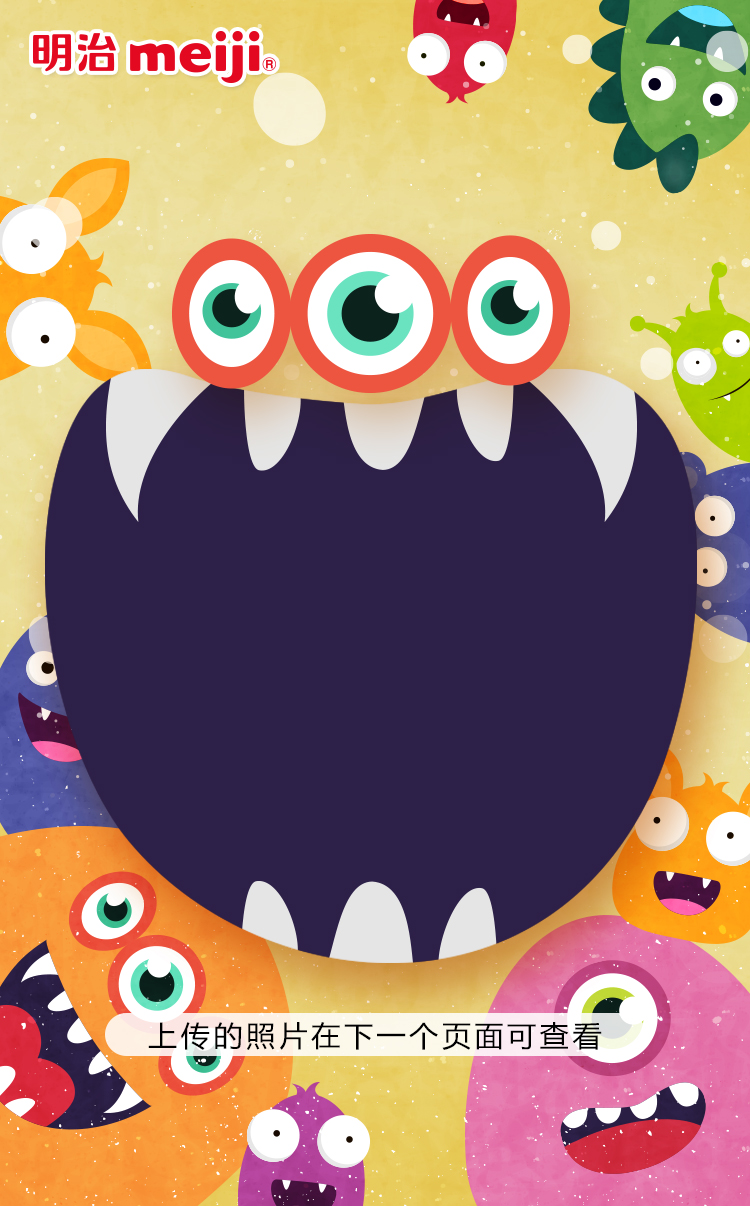
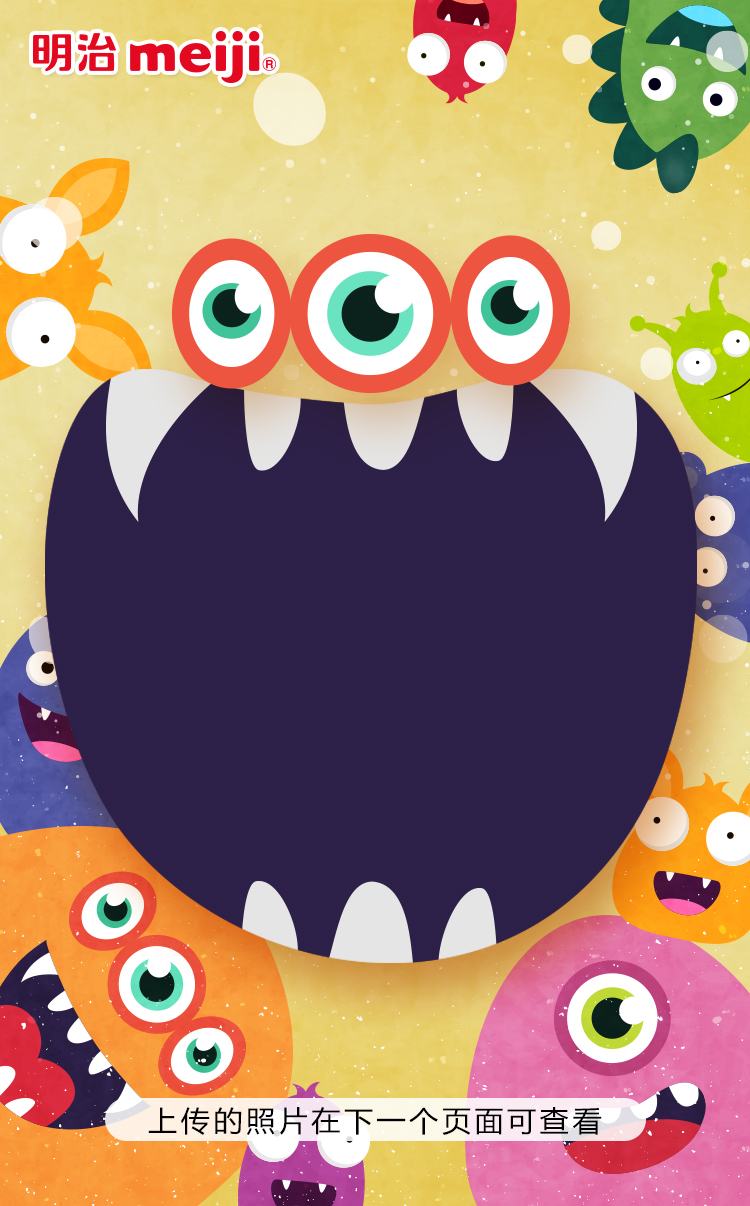
11

Changed region(s): [[0.1227, 0.8284, 0.8587, 0.9511]]

diff --git a/wechat/Content/Mingzhi1/css/style.css b/wechat/Content/Mingzhi1/css/style.css
@@ -15,11 +15,11 @@ a:hover{text-decoration: none;color: black;}
 .gaoxiaowrap{width: 750px;height: 1206px;background: url("../image/qhgaoxiao.jpg") no-repeat;border: 1px solid;}
 .gaoxiaowrap form{width: 750px;height: auto;margin-top: 50px}
 .gaoxiaowrap form input[type=button]{border:none;display:block;width: 603px;height: 103px;background: url("../image/bigsubbtn.png") no-repeat;margin: 300px auto 0 auto;}
-.gaoxiaowrap .shuoming{display: block;width: 320px;height: 30px;text-align: center;position: absolute;top:600px;left:30%;font-size: 32px;color: white;}
+.gaoxiaowrap .shuoming{display: block;width:400px;height: 30px;text-align: center;position: absolute;top:600px;left:23%;font-size: 32px;color: white;}
 .gaoxiaowrap .text{outline: none;background: url("../image/qhbordergaoxiao.png") no-repeat;width:443px;height:167px;padding: 65px 0 0 225px;font-size: 32px;border: none;}
 .gaoguaishow{position:absolute;width: 750px;height:606px;z-index:0;top:372px;overflow:hidden}
 .gaoxiaoshowwrap form{width: 750px;height: auto;margin-top: 50px;}
-.gaoxiaowrap form input[type=button]{border:none;display:block;width: 603px;height: 103px;background: url("../image/bigsubbtn.png") no-repeat;margin:608px auto 0 auto;}
+.gaoxiaowrap form input[type=button]{border:none;display:block;width: 603px;height: 103px;background: url("../image/bigsubbtn.png") no-repeat;margin:695px auto 0 auto;}
 .gaoxiaoshowwrap{width: 750px;height: 1206px;background: url("../image/gaoguainextbg.png") no-repeat;position: absolute;left: 0;top:0;z-index: 2;}
 .gaoxiaoshowwrap .text{outline: none;background: url("../image/qhbordergaoxiao.png") no-repeat;width:443px;height:155px;padding: 65px 0 0 225px;font-size: 32px;border: none;}
 .gongxibtn{z-index:2;position: absolute;width: 275px;height: 292px;left:32%;top:888px;background: url("../image/gongxibtn.png") no-repeat;border: none}
@@ -84,6 +84,6 @@ a:hover{text-decoration: none;color: black;}
 .rightkuang{position:absolute;top:322px;left:377px;width: 278px;height:366px;background:palegoldenrod;border-radius: 15px;}
 .fm{width: 900px;height:500px;background: url("../image/fengmian.jpg") no-repeat;border: 1px solid;background-size: 100%}
 .zmnextwsrap form{margin:712px auto 0 auto;width:750px;}
-.resetphoto{position:absolute;width:230px;height:63px;top:852px;left:50px;z-index:3;}
+.resetphoto{position:absolute;width:230px;height:63px;top:938px;left:10px;z-index:3;}
 .zmnextwsrap .zmimg{width:268px;height:269px;position:absolute;top:726px;left:473px;}
 .qhzmwsrap .zmimg{width:268px;height:269px;position:absolute;top:726px;left:473px;z-index:0}
